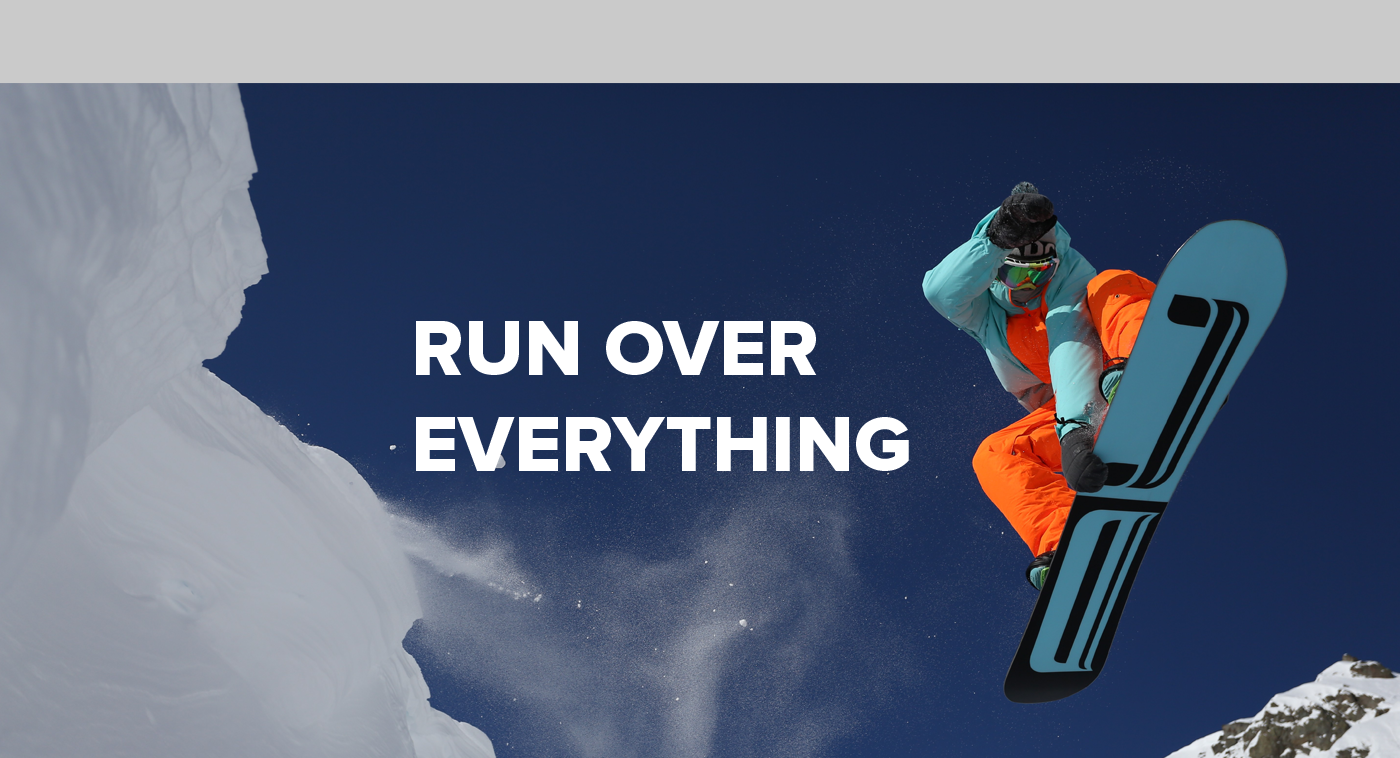
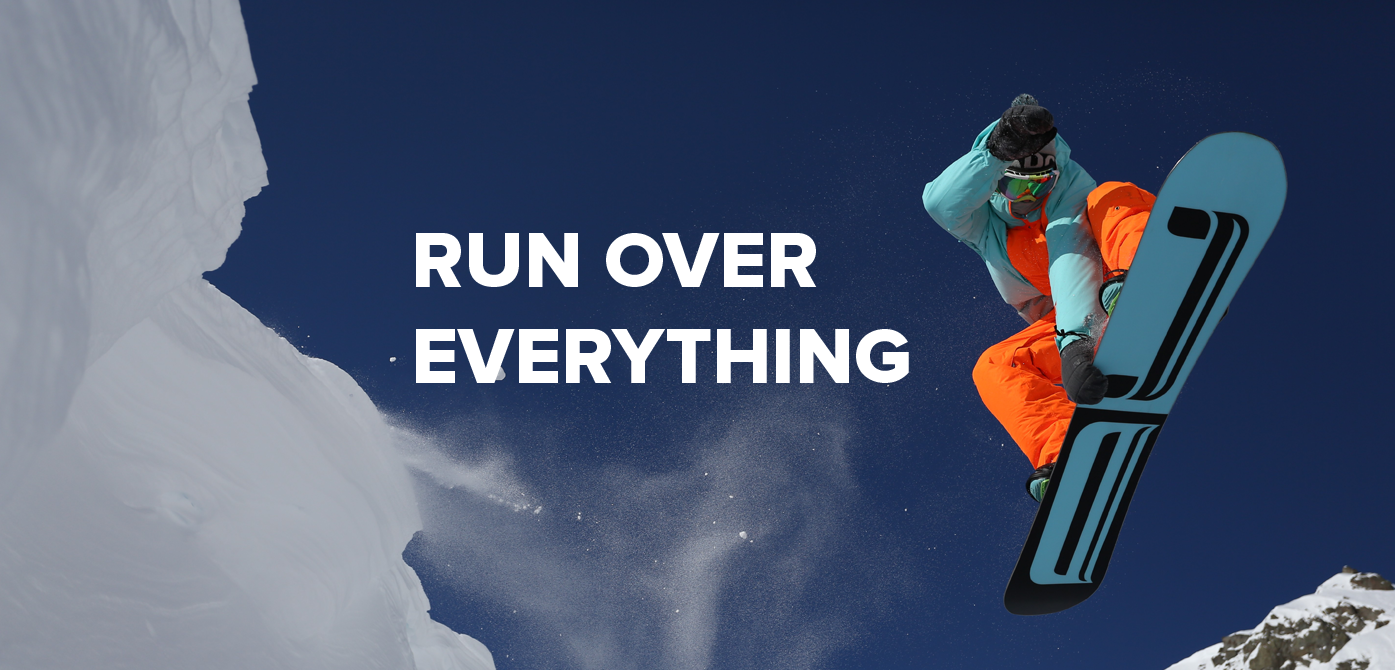
first commit

diff --git a/index.html b/index.html
@@ -15,8 +15,52 @@
     <title>Document</title>
 </head>
 <body>
-    
+    <header>
+        <div class="container">
+            <div class="row">
+                <div class="col-2 pos_logo">
+                    <img class="h_logo" src="/img/logo/Retângulo 4 cópia.png" alt="">
+                    <img src="/img/logo/Retângulo 4.png" alt="">
+                </div>
 
+                <div class="col-8 h_height_l">
+                    <a class="h_link" href="">TEAM</a>
+                    <a class="h_link" href="">SHOP</a>
+                    <a class="h_link" href="">EVENTS</a>
+                    <a class="h_link" href="">EXPERIENCE</a>
+                    <a class="h_link" href="">COMPANY</a>
+                    <a class="h_link" href="">CONTACT</a> 
+                </div>
+
+                <div class="col-2 h_height_l">
+                    <img class="px-2" src="/img/logo/search icon.png" alt="">
+                    <img class="px-2 pb-1" src="/img/logo/shopping bag icon.png" alt="">
+                </div>
+
+            </div>
+        </div>
+    </header>
+
+    <div class="block1">
+        <div id="carouselExampleControls" class="carousel slide" data-bs-ride="carousel">
+            <div class="carousel-inner">
+                <div class="carousel-item active">
+                <img src="/img/b1/oneB1.png" class="d-block w-100" alt="...">
+                </div>
+                <div class="carousel-item">
+                <img src="/img/b1/oneB2.png" class="d-block w-100" alt="...">
+                </div>
+            </div>
+            <button class="carousel-control-prev" type="button" data-bs-target="#carouselExampleControls" data-bs-slide="prev">
+                <span class="carousel-control-prev-icon" aria-hidden="true"></span>
+                <span class="visually-hidden">Предыдущий</span>
+            </button>
+            <button class="carousel-control-next" type="button" data-bs-target="#carouselExampleControls" data-bs-slide="next">
+                <span class="carousel-control-next-icon" aria-hidden="true"></span>
+                <span class="visually-hidden">Следующий</span>
+            </button>
+        </div>
+    </div>
 
 
 

diff --git a/style.css b/style.css
@@ -1,4 +1,31 @@
 body {
     font-family: 'Exo', sans-serif;
     font-family: 'Ibarra Real Nova', serif;
+    margin: 0;
+    padding: 0;
 }
+
+
+header {
+    width: 100%;
+    height: 80px;
+    background-color: black;
+    padding: 5px 0;
+}
+
+.pos_logo{
+    position: relative;
+}
+.h_logo{
+    position: absolute;
+    left: -5px;
+}
+.h_height_l{
+    padding-top: 20px;
+}
+.h_link{
+    color:  white;
+    text-decoration: none;
+    padding-right: 15px;
+}
+
